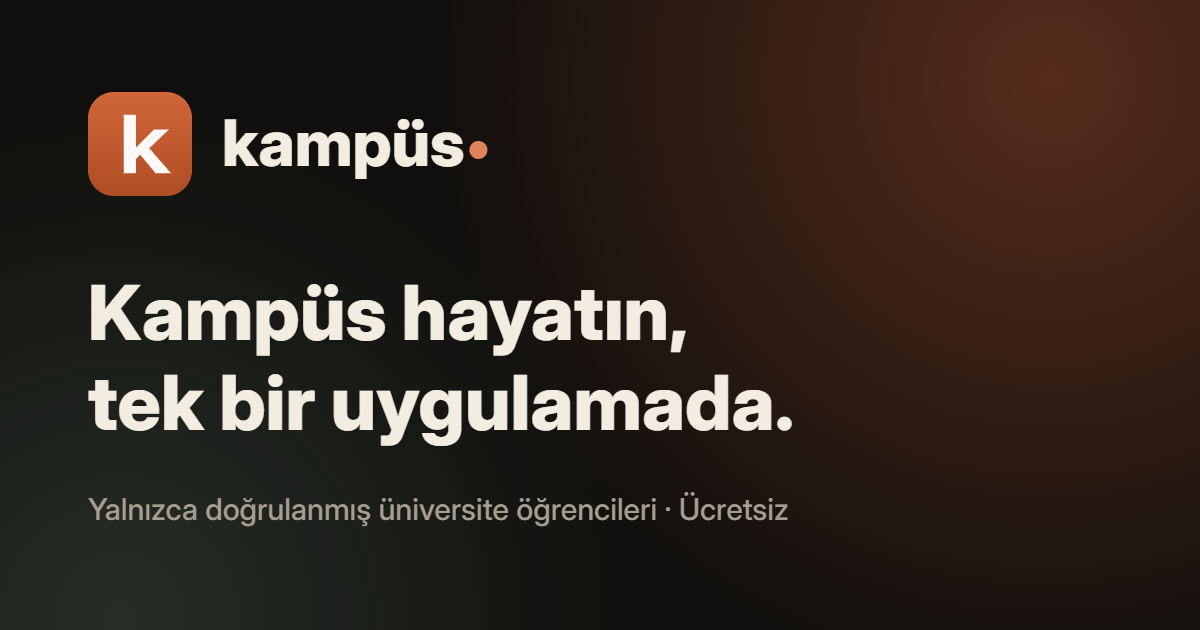
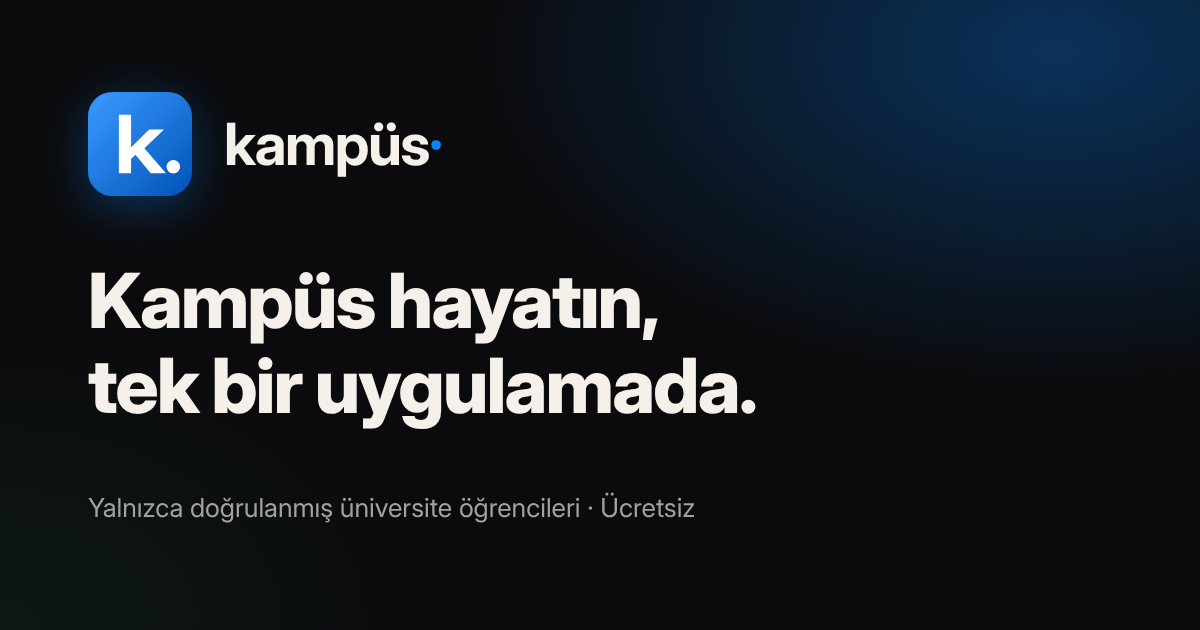
Yeni uygulama simgesi: mavi zemin, beyaz k ve nokta
Turuncu simge uygulamanın mavi-siyah renkleriyle uyuşmuyordu. favicon, PWA
simgeleri, apple-touch-icon ve paylaşım görseli (og-image) yeni simgeyle
yeniden üretildi; hepsi scripts/gen-icons.cjs ile tek kaynaktan çıkıyor.
Service worker sürümü artırıldı ki önbellekteki eski simge yenilensin.

Claude-Session: https://claude.ai/code/session_01QMGZqB5eDuCLyuh5d4FvaR

diff --git a/client/public/sw.js b/client/public/sw.js
@@ -5,7 +5,7 @@
 //   önbellekten verilir (ikinci açılış anında).
 // - API, dosyalar ve gerçek zamanlı bağlantı hiç önbelleğe alınmaz.
 // - Anlık bildirimleri gösterir, tıklanınca ilgili sayfayı açar.
-const VERSION = 'kp-v2';
+const VERSION = 'kp-v3';
 const SHELL_CACHE = `${VERSION}-shell`;
 const ASSET_CACHE = `${VERSION}-assets`;
 const SHELL = ['/offline.html', '/offline.js', '/icon-192.png', '/favicon.svg'];
